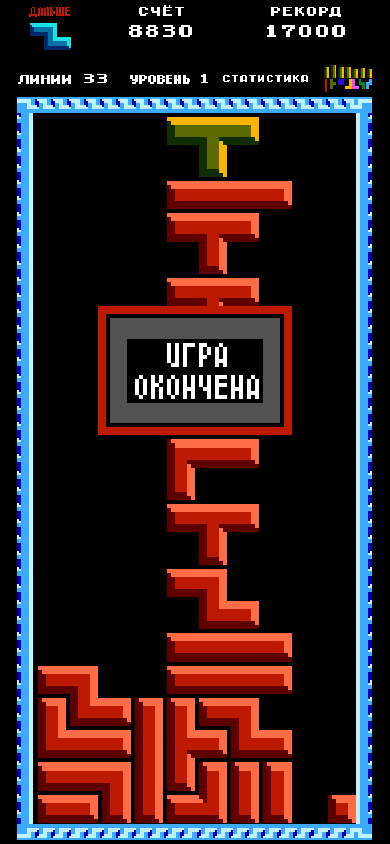
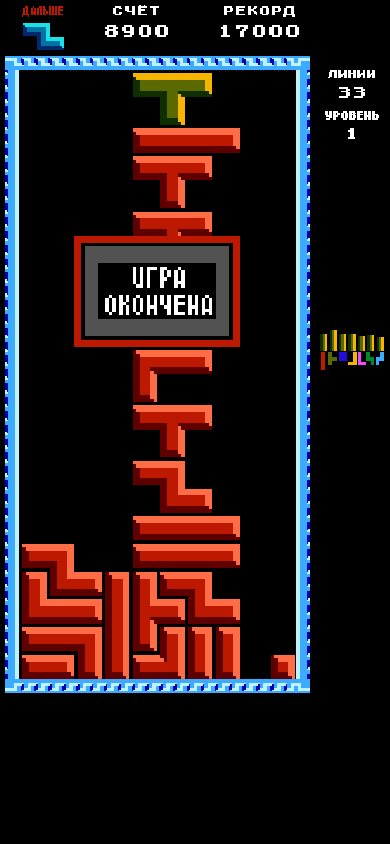
Enlarge the portrait well and keep the game-over transition steady

diff --git a/compositor.js b/compositor.js
@@ -61,8 +61,9 @@ function copyPiece(ppu, pixels, first, originX, originY, destX, destY, width, he
 }
 
 export class Compositor {
-  constructor(canvas) {
+  constructor(canvas, resultBar) {
     this.canvas = canvas;
+    this.resultBar = resultBar;
     this.game = canvas.closest('#game');
     this.ctx = canvas.getContext('2d', { alpha: false });
     this.source = document.createElement('canvas');
@@ -90,6 +91,7 @@ export class Compositor {
     if (!this.landscape) {
       const style = getComputedStyle(this.game);
       this.dropWidth = parseFloat(style.getPropertyValue('--portrait-drop-width'));
+      this.dropTop = parseFloat(style.getPropertyValue('--portrait-drop-top')) / 100;
       this.controlsHeight = parseFloat(style.getPropertyValue('--portrait-controls-height'));
     }
     this.paint();
@@ -287,7 +289,7 @@ export class Compositor {
     const rail = wide ? Math.min(140, w * .27) : 0;
     const designHeight = wide ? 164 : 202;
     const cx = wide ? (w + rail) / 2 : w / 2;
-    // The result controls have their own CSS region below this canvas.
+    // Fit the table above the result controls, on the same canvas as the well.
     const k = Math.min(3.5, (w - 2 * gap - rail) / 144, (h - 2 * gap) / designHeight);
     const listW = 144 * k;
     const top = (h - designHeight * k) / 2;
@@ -305,56 +307,37 @@ export class Compositor {
     for (let i = 0; i < 15; i++) this.fit([56, 96 + 8 * i, 144, 8], cx, first + 10 * i * k, k);
   }
 
-  inlineMetric(key, left, cy, width, scale, height) {
-    const label = this.labels[key];
-    const rect = key === 'stats' ? this.graph : numberBox(this.nes.ppu, key);
-    const valueWidth = key === 'stats' ? 56 : rect[2];
-    const zoom = Math.min(scale, width / (label[2] + 5 + valueWidth * 1.12));
-    const labelW = label[2] * zoom;
-    const valueW = valueWidth * 1.12 * zoom;
-    const x = left + (width - labelW - 5 * zoom - valueW) / 2;
-    this.blit(label, x, cy - 4 * zoom, labelW, 8 * zoom);
-    const valueX = x + labelW + 5 * zoom;
-    if (key === 'stats') {
-      this.chart(valueX + valueW / 2, cy - height / 2, valueW, height, 1.12 * zoom, true);
-    } else {
-      this.blit(rect, valueX, cy - 4.48 * zoom, valueW, 8.96 * zoom);
-    }
-  }
-
   portrait(w, h) {
     const pad = Math.min(7, Math.max(3, w * .012));
-    const width = Math.min(w - 2 * pad, 624);
-    const x = (w - width) / 2;
-    const hasControls = this.scene === 'play';
-    const firstW = hasControls ? Math.min(x + width, w - PAUSE_CORNER) - x : width;
+    const headerWidth = Math.min(w - PAUSE_CORNER - pad, 624);
     const scale = Math.min(2.05, w / 260, h / 320);
-    const first = this.scene === 'dance' ? [['score', .45], ['high', .55]] :
+    const headers = this.scene === 'dance' ? [['score', .45], ['high', .55]] :
       [['next', .24], ['score', .34], ['high', .42]];
-    let left = x;
-    for (const [key, portion] of first) {
-      const slot = firstW * portion;
+    let left = pad;
+    for (const [key, portion] of headers) {
+      const slot = headerWidth * portion;
       this.metric(key, left + slot / 2, pad, slot - 5, scale, 18 * scale);
       left += slot;
     }
-    // The first row leaves the NES pause control its full target. The
-    // second row uses the entire width once it is below that corner.
-    const secondTop = Math.max(PAUSE_CORNER + 1, pad + 30 * scale + 2);
-    const strip = 18 * scale;
-    left = x;
-    for (const [key, portion] of [['lines', .31], ['level', .26], ['stats', .43]]) {
-      const slot = width * portion;
-      this.inlineMetric(key, left, secondTop + strip / 2, slot - 3, scale, strip);
-      left += slot;
-    }
 
-    const fieldTop = secondTop + strip + pad;
-    // The footer holds the visible control marks. The right rail is a
-    // dedicated target for soft drop. Neither covers a pixel of the well.
-    const fieldWidth = w - (hasControls ? this.dropWidth : 0);
-    const fieldBottom = h - (hasControls ? this.controlsHeight : pad);
+    // Keep the same well through play, the bonus dance and game over.
+    const fieldTop = round(pad + 30 * scale + 6);
+    const fieldWidth = w - this.dropWidth;
+    const fieldBottom = h - this.controlsHeight;
     const k = Math.min((fieldWidth - 2 * pad) / WELL_W, (fieldBottom - fieldTop) / WELL_H);
     this.well((fieldWidth - WELL_W * k) / 2, fieldTop, k);
+
+    // Stack the native line count, level and unlabeled piece chart above drop.
+    const railTop = Math.max(fieldTop, PAUSE_CORNER) + pad;
+    const railBottom = h * this.dropTop - 2 * pad;
+    const railHeight = railBottom - railTop;
+    const railWidth = this.dropWidth - 2 * pad;
+    const railCenter = w - this.dropWidth / 2;
+    const railScale = Math.min(scale, railWidth / 50, railHeight / 105);
+    this.metric('lines', railCenter, railTop, railWidth, railScale);
+    this.metric('level', railCenter, railTop + 31 * railScale, railWidth, railScale);
+    const chartTop = railTop + 63 * railScale;
+    this.chart(railCenter, chartTop, railWidth, railBottom - chartTop, railScale * 1.3, true);
   }
 
   landscapeGame(w, h) {
@@ -368,7 +351,7 @@ export class Compositor {
     const gap = Math.min(38, Math.max(10, left * .09));
     const side = Math.max(20, Math.min(180, left - gap - pad));
     const rightX = left + fieldW + gap;
-    const clearRight = w - (this.scene === 'play' ? PAUSE_CORNER : pad) - rightX;
+    const clearRight = w - (this.scene === 'dance' ? pad : PAUSE_CORNER) - rightX;
     const rightW = clearRight >= 66 ? Math.min(side, clearRight) : side;
     const y = Math.min(38, Math.max(9, h * .05));
     const rightY = clearRight < 66 ? Math.max(PAUSE_CORNER + 2, y) : y;
@@ -388,7 +371,7 @@ export class Compositor {
     this.ctx.fillStyle = '#000';
     this.ctx.fillRect(0, 0, w, h);
     if (this.scene === 'scores') {
-      this.scores(w, h);
+      if (!this.resultBar.hidden) this.scores(w, this.resultBar.offsetTop - 14);
       return;
     }
     if (!GAME.has(this.scene)) {

diff --git a/sw.js b/sw.js
@@ -1,8 +1,8 @@
 // Run python3 tools/refresh-offline.py after modifying the game.
 // BEGIN GENERATED OFFLINE BUNDLE
-const BUILD = '17555907d09cd010f711';
+const BUILD = 'e8dee29b18f3748ecb87';
 const FILES = [
-  ["app.js", "sha256-nYo3JA6K28JPbg7wsWM4b5v8zQ+R08IUBzzOMtPNHy8="],
+  ["app.js", "sha256-TbJ4Y7tOJzMZLQiYrjEMrkAoAQCSHDSQ6IljK74UA4Y="],
   ["assets/arrow.png", "sha256-Xkt8bTzGyHK5hj+6p2X7RirhFsHgQqMSyP3W3DyHzBc="],
   ["assets/block.png", "sha256-bHHsaBDkKFKloGbXN9wtirolvFKFXAZTjCPYZu1GSO8="],
   ["assets/frame.png", "sha256-gG5M38iSOY1Ad2HuBi6nKUM4l7yWPpVfz+c/9nAzhiA="],
@@ -22,8 +22,8 @@ const FILES = [
   ["assets/well.png", "sha256-J4sDuw/Zrpe1+fgRJYiR7BzCmgj7L+V++oP0f1ZTNFA="],
   ["cartridge-audio.js", "sha256-kZGHxT/++rzA3l9MkqtlTVq8k7xCb5QwavYsi2VcFT8="],
   ["cartridge.js", "sha256-GE4dL5S9G+aODLmrarnUWTpWqp0udFtzr55GTAVNw48="],
-  ["compositor.js", "sha256-QjdZco4VIAXN4o+4rhB/GEh+G9VucU1XFU05hKslHrM="],
-  ["controls.css", "sha256-+ZxadiR9FsUPdl2z6JtFnvZSbPXqhsq02VAxzqd5YkE="],
+  ["compositor.js", "sha256-XqP5hbuy9M3sOX+C6YjKIzFoPj5J8Y9TO5i7XDHwlbU="],
+  ["controls.css", "sha256-ZMcQfLctoNOyvfFXx2+oiC5B1Olvqc2mhm3jAIe9xlo="],
   ["controls.js", "sha256-u+m4TakyTczslxaEXbCJdTK27jUHPRtLLmPmUpiyj4E="],
   ["engine.js", "sha256-sNqL04SDI1zE2+3XE5vK8Q51wiOyPXqHro9kt+l0iVM="],
   ["game-ru.nes", "sha256-M/BKw5U+fW092ICDzW+Q/93IBWg9IPqEB9jC2DWxHUY="],
@@ -33,7 +33,7 @@ const FILES = [
   ["install.js", "sha256-DTK3Cw1MfqEE4GN6H7rAfn5v2G86ZrHi9kIMDpNunP0="],
   ["locale.js", "sha256-lst5Wo9aODEyHkntKM++/0KeJdVw2/vfYJ1v+hegyWw="],
   ["manifest.webmanifest", "sha256-5nKMTk9rEvbDWQ9HW7FOAbX+V8rNu/1zMXftY1ooG3Y="],
-  ["style.css", "sha256-HL17n9miAn1aooW3Z7ceSdkXlqiwkkF6cfAhuGoJ+nQ="],
+  ["style.css", "sha256-8jEwvtwxbeeL2BI75nJBgfGDXUsRmD3XyTHLStrPtnU="],
   ["vendor/jsnes.js", "sha256-uIpOhApFnEU+rBKvQIrwLSzTCYdZfLlWyfLQ5pRXMPs="],
   ["viewport.js", "sha256-i+gkpg/UthKbTcHjcJ2PQDEnPk1vGKc4iC4Q9tIcnxo="]
 ];

diff --git a/app.js b/app.js
@@ -15,7 +15,7 @@ const notice = byId('notice');
 const afterGame = byId('after-game');
 const resultBar = byId('result-bar');
 const initialsEntry = byId('initials-entry');
-const renderer = new Compositor(byId('picture'));
+const renderer = new Compositor(byId('picture'), resultBar);
 const menus = ['home', 'setup', 'pause', 'audio'];
 const bindings = {
   ArrowLeft: 'left', ArrowRight: 'right', ArrowDown: 'down',
@@ -206,6 +206,9 @@ function onFrame(buffer, nes, present = true) {
   if (view !== 'game') return;
   let scene = readScene(nes);
   if (scene === 'boot') scene = activeScene;
+  // The cartridge blanks the PPU while it writes the ranking screen.
+  // Leave the last complete picture visible until the table is ready.
+  if (scene === 'scores' && !nes.ppu.f_bgVisibility) return;
   if (scene !== activeScene) {
     releaseAll();
     activeScene = scene;
@@ -216,7 +219,6 @@ function onFrame(buffer, nes, present = true) {
     home();
     return;
   }
-  if (present) renderer.draw(buffer, scene, nes);
   const showResults = scene === 'scores';
   if (resultBar.hidden === showResults) {
     resultBar.hidden = !showResults;
@@ -227,6 +229,7 @@ function onFrame(buffer, nes, present = true) {
     if (afterGame.hidden !== editing) afterGame.hidden = editing;
     if (initialsEntry.hidden === editing) initialsEntry.hidden = !editing;
   }
+  if (present) renderer.draw(buffer, scene, nes);
 }
 
 function localize() {

diff --git a/controls.css b/controls.css
@@ -70,12 +70,13 @@
 
 @media (orientation: portrait) {
   #game {
-    --portrait-drop-width: 84px;
-    --portrait-controls-height: 64px;
+    --portrait-drop-width: 76px;
+    --portrait-drop-top: 45%;
+    --portrait-controls-height: 54px;
   }
-  .pad .moves, .pad .turns { bottom: 8px; }
+  .pad .moves, .pad .turns { bottom: 3px; }
   .pad > .down {
-    top: 45%; right: 0; transform: none;
+    top: var(--portrait-drop-top); right: 0; transform: none;
     width: var(--portrait-drop-width);
     height: clamp(88px, 26%, 200px);
   }

diff --git a/style.css b/style.css
@@ -49,7 +49,6 @@ img, canvas, .panel, .turn { image-rendering: pixelated; }
   --result-lift: clamp(28px, 8.5dvh, 80px);
   --result-height: clamp(58px, 8dvh, 74px);
 }
-#game.scores #screen { bottom: calc(var(--result-lift) + var(--result-height) + 14px); }
 #result-bar {
   position: absolute; z-index: 2; bottom: var(--result-lift);
   width: min(calc(100% - 32px), 386px); left: 50%; transform: translateX(-50%);
